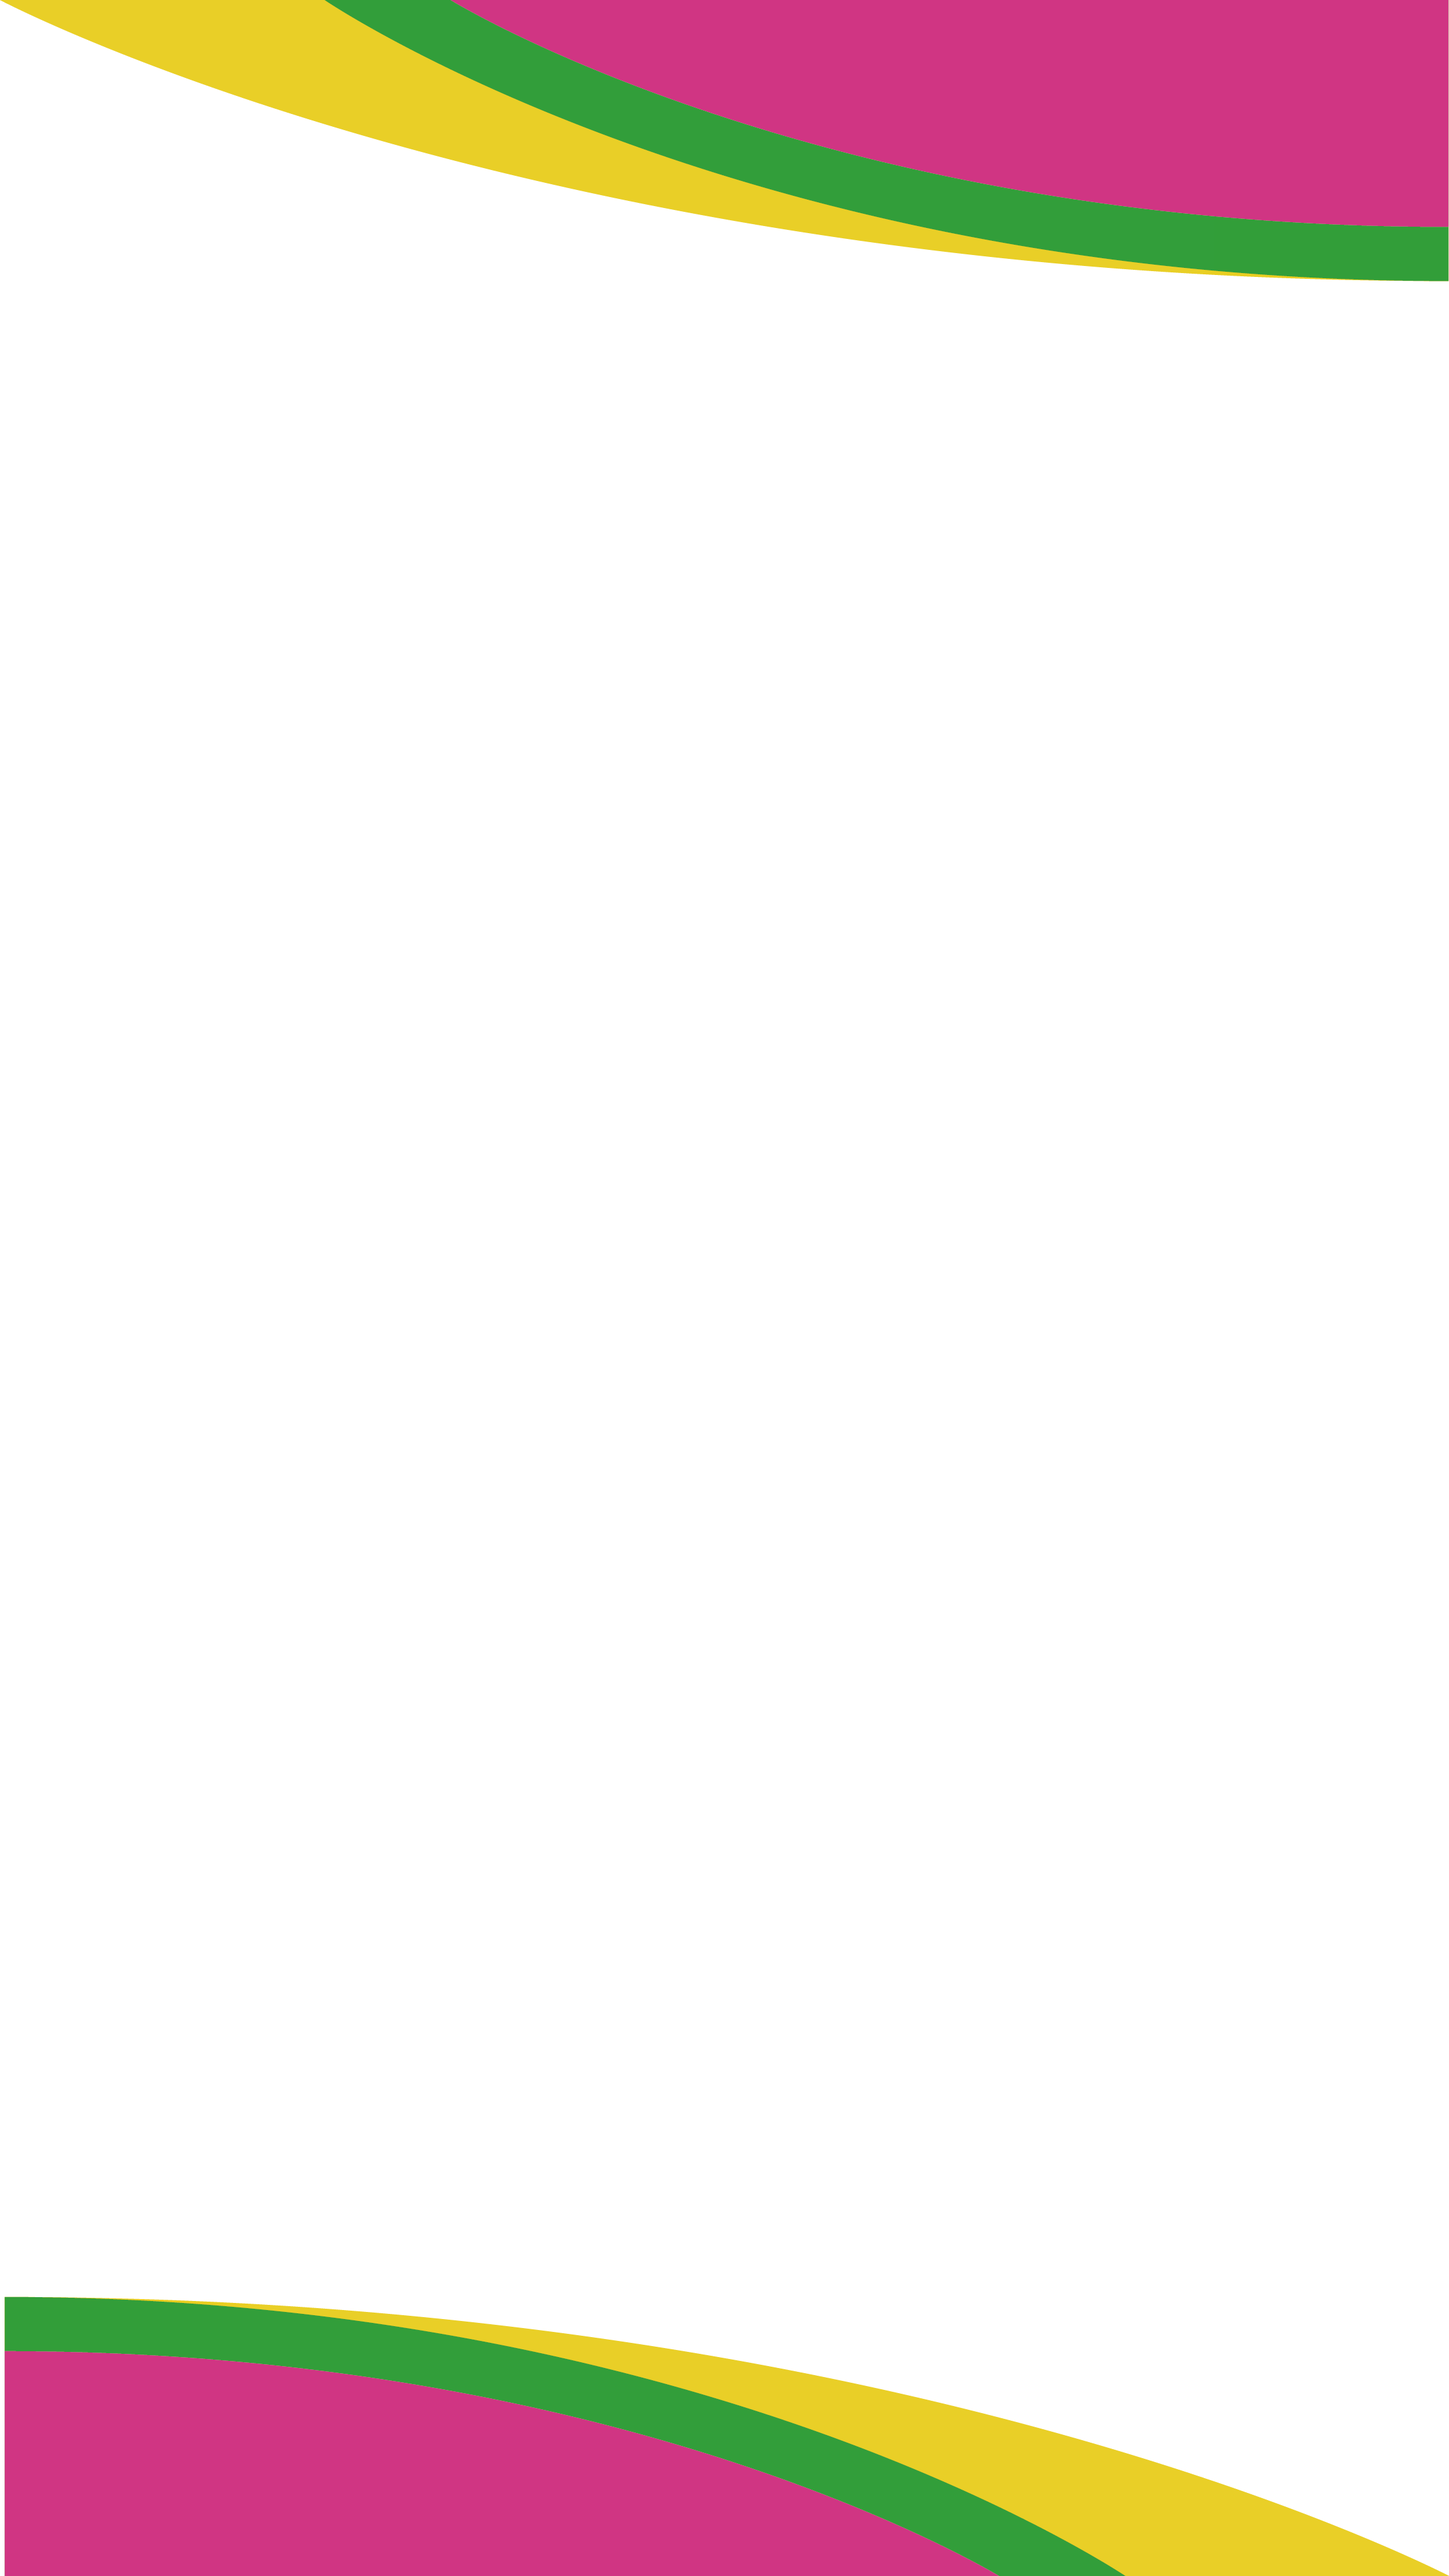
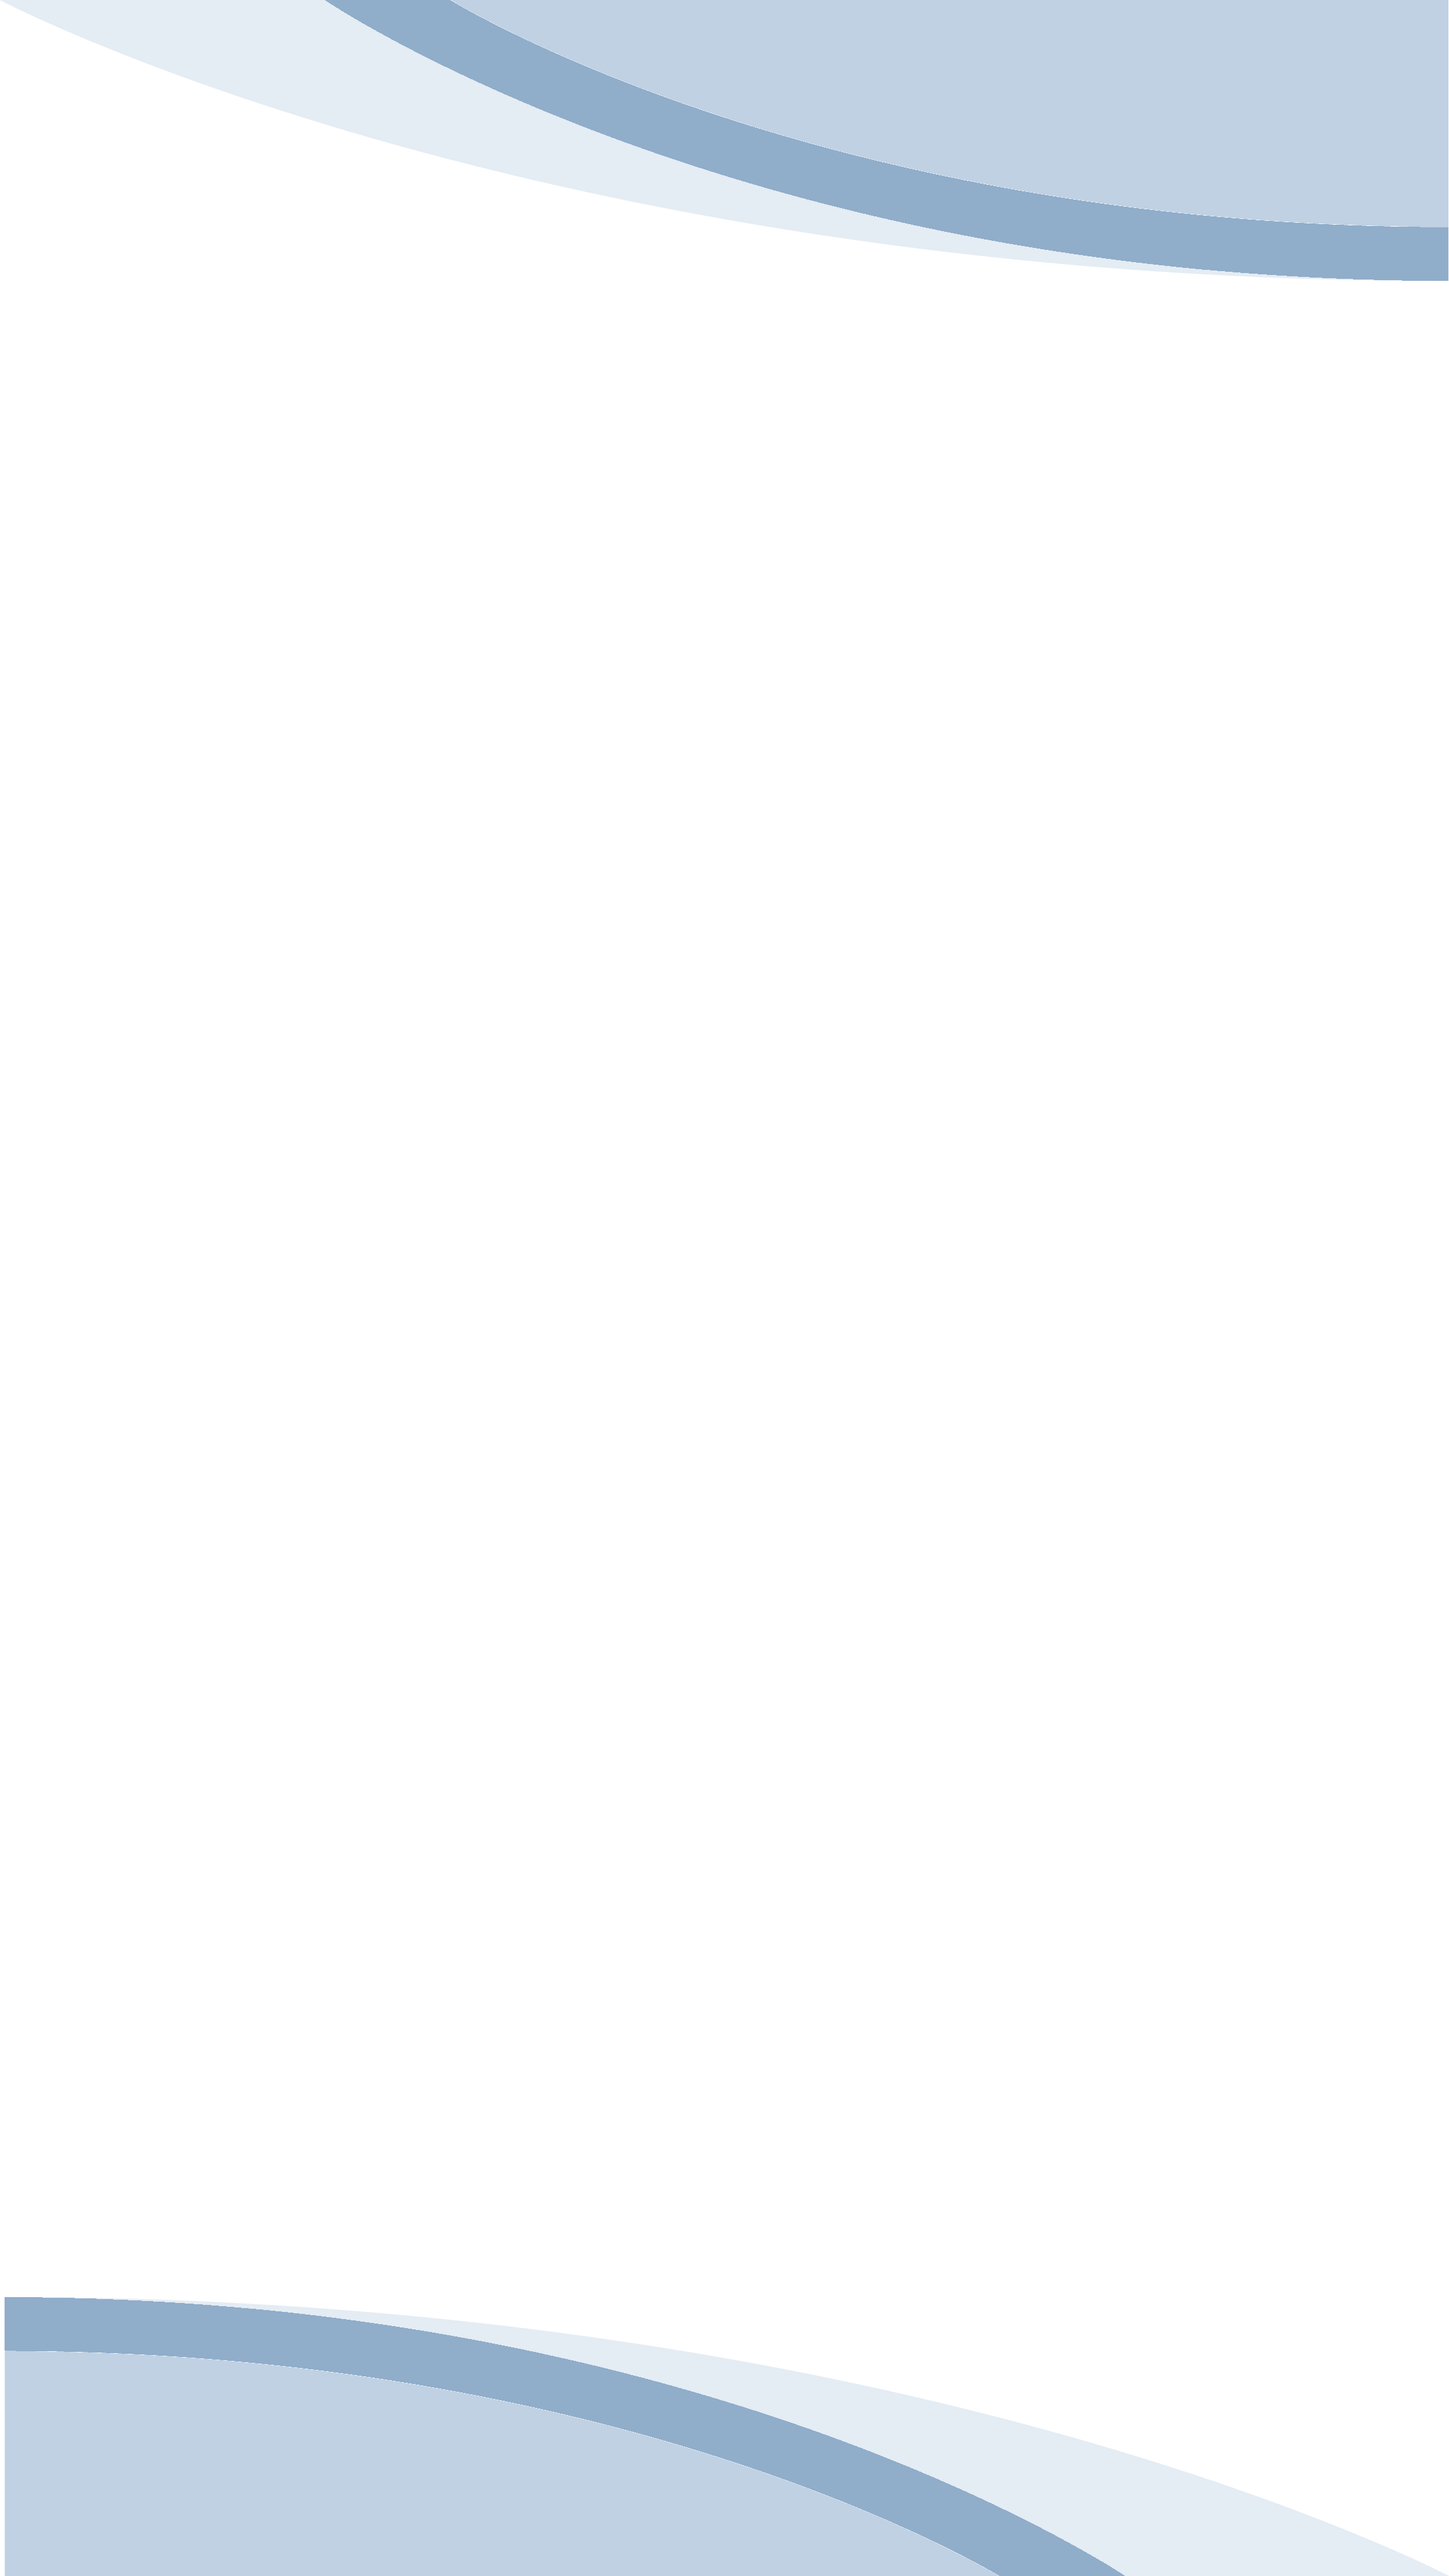
punto de venta: buscar cliente existente en datos del cliente (igual que expo) y fondo en azul acero claro

Changed region(s): [[0.0, 0.0, 1.0, 0.125], [0.0, 0.875, 0.9951, 1.0]]

diff --git a/appexpflutter_update/lib/features/punto_venta/presentation/widgets/cliente_form.dart b/appexpflutter_update/lib/features/punto_venta/presentation/widgets/cliente_form.dart
@@ -1,4 +1,5 @@
 import 'package:appexpflutter_update/config/upper_case_text_formatter.dart';
+import 'package:sesion_ventas/domain/entities/cliente_entity.dart';
 import 'package:appexpflutter_update/features/ventas/presentation/blocs/cliente/cliente_bloc.dart';
 import 'package:flutter/material.dart';
 import 'package:flutter/services.dart';
@@ -46,6 +47,25 @@ class _LoginFormState extends State<ClienteForm> {
         formGroup: form,
         child: Column(
           children: [
+            // Jalar un cliente ya registrado y pre-llenar los campos, en vez
+            // de capturarlo de nuevo.
+            SizedBox(
+              width: double.infinity,
+              child: OutlinedButton.icon(
+                onPressed: _buscarClienteExistente,
+                icon: const Icon(Icons.person_search,
+                    color: Colores.secondaryColor),
+                label: const Text(
+                  'BUSCAR CLIENTE EXISTENTE',
+                  style: TextStyle(color: Colores.secondaryColor),
+                ),
+                style: OutlinedButton.styleFrom(
+                  side: const BorderSide(color: Colores.secondaryColor),
+                  padding: const EdgeInsets.symmetric(vertical: 12),
+                ),
+              ),
+            ),
+            const SizedBox(height: 14),
             CustomReactiveTextField(
               formControlName: 'nombre',
               label: 'Nombre',
@@ -169,6 +189,129 @@ class _LoginFormState extends State<ClienteForm> {
         ),
       ),
     );
+  }
+
+  /// Abre la búsqueda de clientes registrados; al elegir uno pre-llena los
+  /// campos del formulario y conserva su id para el ticket.
+  Future<void> _buscarClienteExistente() async {
+    FocusScope.of(context).unfocus();
+    final cliente = await showModalBottomSheet<ClienteEntity>(
+      context: context,
+      isScrollControlled: true,
+      shape: const RoundedRectangleBorder(
+        borderRadius: BorderRadius.vertical(top: Radius.circular(16)),
+      ),
+      builder: (sheetContext) {
+        return Padding(
+          padding: EdgeInsets.only(
+              bottom: MediaQuery.of(sheetContext).viewInsets.bottom),
+          child: SizedBox(
+            height: MediaQuery.of(sheetContext).size.height * 0.7,
+            child: Column(
+              children: [
+                const Padding(
+                  padding: EdgeInsets.only(top: 16, bottom: 4),
+                  child: Text(
+                    'BUSCAR CLIENTE EXISTENTE',
+                    style: TextStyle(
+                        fontWeight: FontWeight.bold,
+                        color: Colores.secondaryColor),
+                  ),
+                ),
+                Padding(
+                  padding: const EdgeInsets.symmetric(
+                      horizontal: 16, vertical: 8),
+                  child: TextField(
+                    autofocus: true,
+                    textCapitalization: TextCapitalization.characters,
+                    inputFormatters: [UpperCaseTextFormatter()],
+                    // El bloc ya trae debounce de 500 ms, así que se puede
+                    // buscar mientras teclea sin saturar el backend.
+                    onChanged: (value) {
+                      if (value.trim().length >= 2) {
+                        sheetContext
+                            .read<ClienteBloc>()
+                            .add(GetClientesEvent(name: value.trim()));
+                      }
+                    },
+                    onSubmitted: (value) => sheetContext
+                        .read<ClienteBloc>()
+                        .add(GetClientesEvent(name: value.trim())),
+                    decoration: InputDecoration(
+                      prefixIcon: const Icon(Icons.search),
+                      hintText: 'Nombre del cliente',
+                      border: OutlineInputBorder(
+                          borderRadius: BorderRadius.circular(30)),
+                      contentPadding:
+                          const EdgeInsets.symmetric(horizontal: 16),
+                    ),
+                  ),
+                ),
+                Expanded(
+                  child: BlocBuilder<ClienteBloc, ClienteState>(
+                    builder: (context, state) {
+                      if (state is ClienteLoading) {
+                        return const Center(
+                            child: CircularProgressIndicator());
+                      }
+                      if (state is ClienteError) {
+                        return Center(
+                          child: Text(state.message,
+                              style: const TextStyle(color: Colors.red)),
+                        );
+                      }
+                      if (state is ClienteLoaded) {
+                        if (state.clientes.isEmpty) {
+                          return const Center(
+                              child: Text('Sin resultados'));
+                        }
+                        return ListView.separated(
+                          itemCount: state.clientes.length,
+                          separatorBuilder: (_, __) =>
+                              const Divider(height: 1),
+                          itemBuilder: (context, index) {
+                            final c = state.clientes[index];
+                            return ListTile(
+                              dense: true,
+                              leading: const Icon(Icons.person,
+                                  color: Colores.secondaryColor),
+                              title: Text('${c.nombre} ${c.apellido}'.trim()),
+                              subtitle: Text(
+                                  'Tel: ${c.telefono}  ·  ${c.correo}'),
+                              onTap: () =>
+                                  Navigator.of(sheetContext).pop(c),
+                            );
+                          },
+                        );
+                      }
+                      return const Center(
+                        child: Text(
+                          'Escribe el nombre para buscar',
+                          style: TextStyle(color: Colors.grey),
+                        ),
+                      );
+                    },
+                  ),
+                ),
+              ],
+            ),
+          ),
+        );
+      },
+    );
+
+    if (!mounted) return;
+    // Dejar la búsqueda limpia para la próxima vez.
+    context.read<ClienteBloc>().add(ClearClienteStateEvent());
+    if (cliente == null) return;
+
+    // Solo pre-llenar los campos; el ticket no liga el id del cliente.
+    form.control('nombre').value =
+        '${cliente.nombre} ${cliente.apellido}'.trim().toUpperCase();
+    form.control('direccion').value =
+        (cliente.direccion ?? '').trim().toUpperCase();
+    form.control('telefono').value = cliente.telefono.trim();
+    form.control('email').value = cliente.correo.trim();
   }
 
   void _submitForm(FormGroup form) {

diff --git a/appexpflutter_update/lib/features/punto_venta/presentation/screens/cliente_nuevo_screen.dart b/appexpflutter_update/lib/features/punto_venta/presentation/screens/cliente_nuevo_screen.dart
@@ -39,12 +39,14 @@ class ClienteNuevoVentaScreen extends StatelessWidget {
               Padding(
                 padding: const EdgeInsets.symmetric(horizontal: 8.0),
                 child: SizedBox(
-                  height: 410,
+                  // Altura para dar cabida al botón de cliente existente;
+                  // el contenido interno sigue siendo scrolleable.
+                  height: 500,
                   child: Card(
                     child: Scrollbar(
                       child: SingleChildScrollView(
                         child: SizedBox(
-                          height: size.height * 0.70,
+                          height: size.height * 0.85,
                           child: const Column(
                             crossAxisAlignment: CrossAxisAlignment.stretch,
                             children: [
